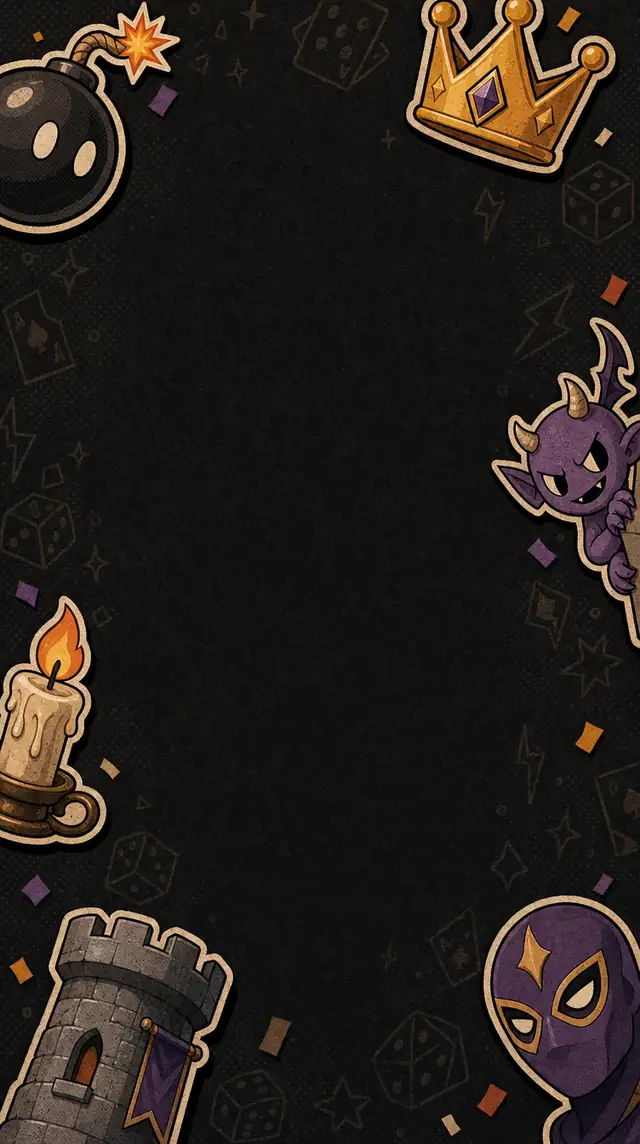
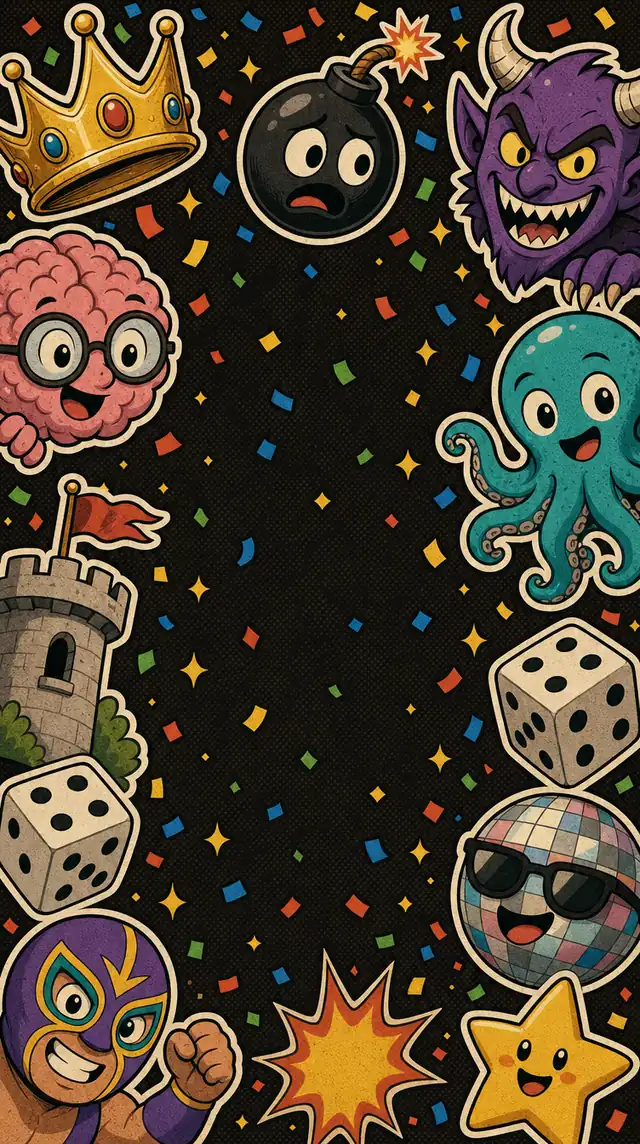
הירו כמו במוקאפ: לוגו-מדבקה מצויר, רקע צפוף, כפתורי סלאב + כפתור שיתוף
- לוגו LARIK כתמונת מדבקה מצוירת (אותיות בועה ענקיות, קו דיו, צל אדום)
  במקום טקסט — נאמן למוקאפ שאיתן אהב
- רקע בית v2: דמויות מכל הקצוות + קונפטי על כל המסך — מסך מלא
- כפתורים תלת-ממדיים כמו במוקאפ: פאה כהה מלמטה, הברקה מלמעלה,
  צל קשיח; צהוב וכחול צרים וממורכזים
- כפתור שיתוף 📤 בפינה: Web Share עם תמונת ההירו + משפט מותג,
  נפילה רכה לוואטסאפ/העתקה; אנליטיקה share_click/share_done
- og-share.jpg חדש (צילום ההירו האמיתי, 137KB) + עדכון og:image —
  קישור שנשלח בוואטסאפ מציג את ההירו החדש

Claude-Session: https://claude.ai/code/session_014aR8kDkKvX8bcC2KCoF95c

diff --git a/client/src/stickers.css b/client/src/stickers.css
@@ -176,11 +176,12 @@ body{
   background:url("/stickers/home-bg.webp") center/cover no-repeat, var(--ground);
   min-height:100dvh;
 }
-.home-hero{ text-align:center; margin-top:8px; }
+.home-hero{ text-align:center; margin-top:2px; }
+/* הלוגו הוא מדבקה מצוירת (logo-larik.webp) — גדול וממלא את המסך כמו במוקאפ */
 .logo-sticker{
-  display:inline-block; font-family:var(--font-display); font-size:64px; line-height:1;
-  color:var(--sk-paper); letter-spacing:.02em; rotate:-1.5deg;
-  text-shadow:-4px 5px 0 var(--sk-red-n), -1px 1px 0 var(--stroke), 1px -1px 0 var(--stroke), -1px -1px 0 var(--stroke), 1px 1px 0 var(--stroke);
+  display:block; width:min(86%, 340px); margin:0 auto;
+  rotate:-1.5deg;
+  filter:drop-shadow(0 6px 10px rgba(0,0,0,.45));
 }
 .logo-sub{
   font-family:var(--font-display); font-size:15px; color:var(--sk-red-n);
@@ -196,32 +197,51 @@ body{
   border-radius:14px; padding:8px 14px; display:inline-block;
 }
 
-.home-actions{ display:flex; flex-direction:column; gap:14px; margin-top:10px; }
+.home-actions{ display:flex; flex-direction:column; gap:16px; margin-top:12px; align-items:stretch; }
+/* כפתורי "סלאב" תלת-ממדיים כמו במוקאפ: פאה כהה מלמטה + הברקה מלמעלה + צל קשיח */
 .mega-cta{
-  font-family:var(--font-display); font-size:28px; padding:20px 18px;
+  font-family:var(--font-display); font-size:32px; padding:20px 18px 26px;
   background:var(--a-red); color:var(--on-red);
-  border:calc(var(--stroke-w) + 1px) solid var(--stroke); border-radius:26px;
+  border:calc(var(--stroke-w) + 1px) solid var(--stroke); border-radius:24px;
   rotate:-1.2deg; cursor:pointer;
-  box-shadow:calc(var(--hard-x) * 2) calc(var(--hard-y) * 2) 0 var(--stroke), var(--hard-x) var(--hard-y) 0 var(--stroke);
+  box-shadow:
+    inset 0 -9px 0 rgba(0,0,0,.28),
+    inset 0 3px 0 rgba(255,255,255,.22),
+    calc(var(--hard-x) * 2) calc(var(--hard-y) * 2) 0 var(--stroke);
+  text-shadow:0 2px 0 rgba(0,0,0,.25);
   transition:transform .08s, box-shadow .08s;
 }
-.mega-cta:active{ transform:translate(6px, 8px); box-shadow:0 0 0 var(--stroke); }
+.mega-cta:active{
+  transform:translate(5px, 7px);
+  box-shadow:inset 0 -3px 0 rgba(0,0,0,.28), 0 0 0 var(--stroke);
+}
 .mega-cta:disabled{ opacity:.55; }
 .shelf-cta{
-  font-family:var(--font-display); font-size:19px; padding:13px 16px;
+  align-self:center; min-width:76%;
+  font-family:var(--font-display); font-size:21px; padding:13px 18px 17px;
   background:var(--a-yellow); color:var(--on-yellow);
   border:var(--stroke-w) solid var(--stroke); border-radius:18px; rotate:.9deg;
-  box-shadow:var(--hard-x) var(--hard-y) 0 var(--hard); cursor:pointer;
+  box-shadow:
+    inset 0 -6px 0 rgba(0,0,0,.18),
+    inset 0 2px 0 rgba(255,255,255,.35),
+    var(--hard-x) var(--hard-y) 0 var(--hard);
+  cursor:pointer;
   transition:transform .08s, box-shadow .08s;
 }
-.shelf-cta:active{ transform:translate(3px,4px); box-shadow:none; }
+.shelf-cta:active{ transform:translate(3px,4px); box-shadow:inset 0 -2px 0 rgba(0,0,0,.18); }
 .join-cta{
-  font-weight:800; font-size:15px; padding:11px 16px;
-  background:transparent; color:var(--a-blue);
-  border:var(--stroke-w) solid var(--a-blue); border-radius:16px; rotate:-.6deg;
+  align-self:center; min-width:58%;
+  font-family:var(--font-display); font-weight:400; font-size:16px; padding:10px 18px 13px;
+  background:var(--a-blue); color:#fff;
+  border:var(--stroke-w) solid var(--stroke); border-radius:15px; rotate:-.6deg;
+  box-shadow:
+    inset 0 -5px 0 rgba(0,0,0,.25),
+    inset 0 2px 0 rgba(255,255,255,.22),
+    var(--hard-x) var(--hard-y) 0 var(--hard);
   cursor:pointer;
+  transition:transform .08s, box-shadow .08s;
 }
-.join-cta:active{ transform:translate(2px,3px); }
+.join-cta:active{ transform:translate(2px,3px); box-shadow:inset 0 -2px 0 rgba(0,0,0,.25); }
 .join-panel{ display:flex; flex-direction:column; gap:8px; }
 .home-foot{ text-align:center; margin-top:14px; font-size:12px; }
 .show-corner{
@@ -232,6 +252,23 @@ body{
   box-shadow:var(--hard-x) var(--hard-y) 0 var(--a-yellow); cursor:pointer;
 }
 .show-corner small{ font-size:10px; font-weight:800; }
+/* כפתור שיתוף — מדבקה בפינה הנגדית למופע */
+.share-corner{
+  position:absolute; top:14px; right:14px; z-index:2;
+  display:flex; flex-direction:column; align-items:center; gap:1px;
+  font-size:20px; padding:7px 10px; background:var(--a-yellow); color:var(--on-yellow);
+  border:var(--stroke-w) solid var(--stroke); border-radius:14px; rotate:4deg;
+  box-shadow:var(--hard-x) var(--hard-y) 0 var(--hard); cursor:pointer;
+  transition:transform .08s;
+}
+.share-corner:active{ transform:translate(2px,3px); box-shadow:none; }
+.share-corner small{ font-size:10px; font-weight:800; }
+.share-toast{
+  position:fixed; bottom:24px; left:50%; transform:translateX(-50%); z-index:9;
+  font-weight:800; font-size:14px; background:var(--paper); color:var(--on-paper);
+  border:var(--stroke-w) solid var(--stroke); border-radius:14px; padding:10px 18px;
+  box-shadow:var(--hard-x) var(--hard-y) 0 var(--hard);
+}
 
 /* ---------- מדף המשחקים: פוסטרים שמתקלפים ---------- */
 .shelf{ gap:10px; padding-bottom:40px; }

diff --git a/client/src/components/Home.tsx b/client/src/components/Home.tsx
@@ -9,12 +9,46 @@ import QRScanner from "./QRScanner";
  * כפתור ענק אחד ששולט במסך (פתח חדר), מדף המשחקים ("מה משחקים כאן?"),
  * והצטרפות לחברים בעדיפות שלישית. הרקע חי: דמויות המשחקים מציצות מהקצוות.
  */
+/** הטקסט שנשלח לחברים עם הקישור — בקול של המותג */
+const SHARE_TEXT = "ערב משחקים שלם בטלפון 🎉 בלי קופסה, בלי הורדות, בלי תירוצים. משחקים. צוחקים. מתחברים 👇";
+const SHARE_URL = "https://larik.ai";
+
 export default function Home() {
   const [code, setCode] = useState("");
   const [busy, setBusy] = useState(false);
   const [scanning, setScanning] = useState(false);
   const [joining, setJoining] = useState(false);
   const [err, setErr] = useState("");
+  const [shared, setShared] = useState("");
+
+  /** שיתוף: תמונת ההירו + משפט + קישור. נופל ברכות לוואטסאפ / העתקה. */
+  async function share() {
+    track("share_click");
+    try {
+      // ניסיון לצרף את תמונת ההירו לשיתוף עצמו (נתמך ברוב הטלפונים)
+      let files: File[] | undefined;
+      try {
+        const blob = await (await fetch("/og-share.jpg")).blob();
+        const f = new File([blob], "larik.jpg", { type: "image/jpeg" });
+        if (navigator.canShare?.({ files: [f] })) files = [f];
+      } catch { /* בלי תמונה — עדיין משתפים */ }
+      if (navigator.share) {
+        await navigator.share({ title: "LARIK", text: `${SHARE_TEXT}\n${SHARE_URL}`, url: SHARE_URL, ...(files ? { files } : {}) });
+        track("share_done");
+        return;
+      }
+    } catch { /* המשתמש ביטל או שהשיתוף נכשל — לא נורא */ return; }
+    // דפדפן בלי Web Share — וואטסאפ, ואם לא אז העתקה
+    const wa = `https://wa.me/?text=${encodeURIComponent(`${SHARE_TEXT}\n${SHARE_URL}`)}`;
+    const w = window.open(wa, "_blank");
+    if (!w) {
+      try {
+        await navigator.clipboard.writeText(`${SHARE_TEXT}\n${SHARE_URL}`);
+        setShared("הקישור הועתק! 📋 שלחו לחברים");
+        setTimeout(() => setShared(""), 2500);
+      } catch { /* אין מה לעשות */ }
+    }
+  }
 
   async function host() {
     setBusy(true);
@@ -44,8 +78,13 @@ export default function Home() {
         🕯<small>מופע</small>
       </button>
 
+      <button className="share-corner" onClick={share} aria-label="שתפו חברים">
+        📤<small>שתפו</small>
+      </button>
+      {shared && <div className="share-toast popin">{shared}</div>}
+
       <div className="home-hero">
-        <div className="logo-sticker">LARIK</div>
+        <img className="logo-sticker" src="/stickers/logo-larik.webp" alt="LARIK" />
         <p className="logo-sub">משחקים. צוחקים. מתחברים.</p>
         <p className="home-pitch">
           ערב משחקים שלם — בלי קופסה, בלי חלקים, בלי הורדות.

diff --git a/client/index.html b/client/index.html
@@ -11,7 +11,7 @@
     <meta property="og:title" content="LARIK — משחקי חברה לטלפון, בלי אפליקציה" />
     <meta property="og:description" content="סורקים QR ומשחקים ביחד — מי הכי, על המצח, על הלשון ועוד. בלי הורדות, בלי הרשמה, בעברית." />
     <meta property="og:url" content="https://larik.ai/" />
-    <meta property="og:image" content="https://larik.ai/og-games.png" />
+    <meta property="og:image" content="https://larik.ai/og-share.jpg" />
     <meta property="og:image:width" content="1200" />
     <meta property="og:image:height" content="630" />
     <meta property="og:locale" content="he_IL" />
